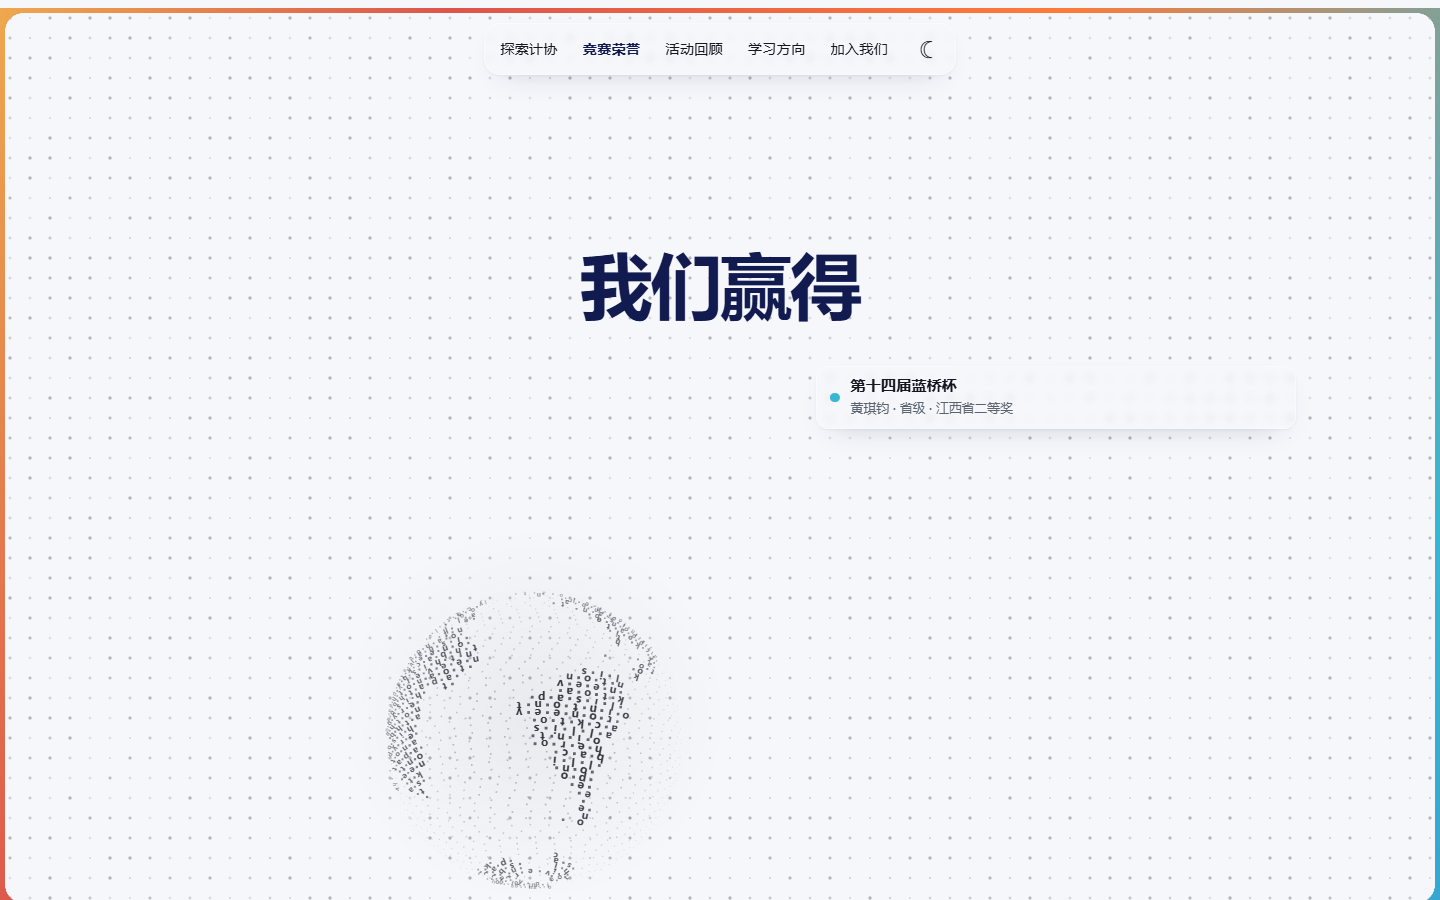
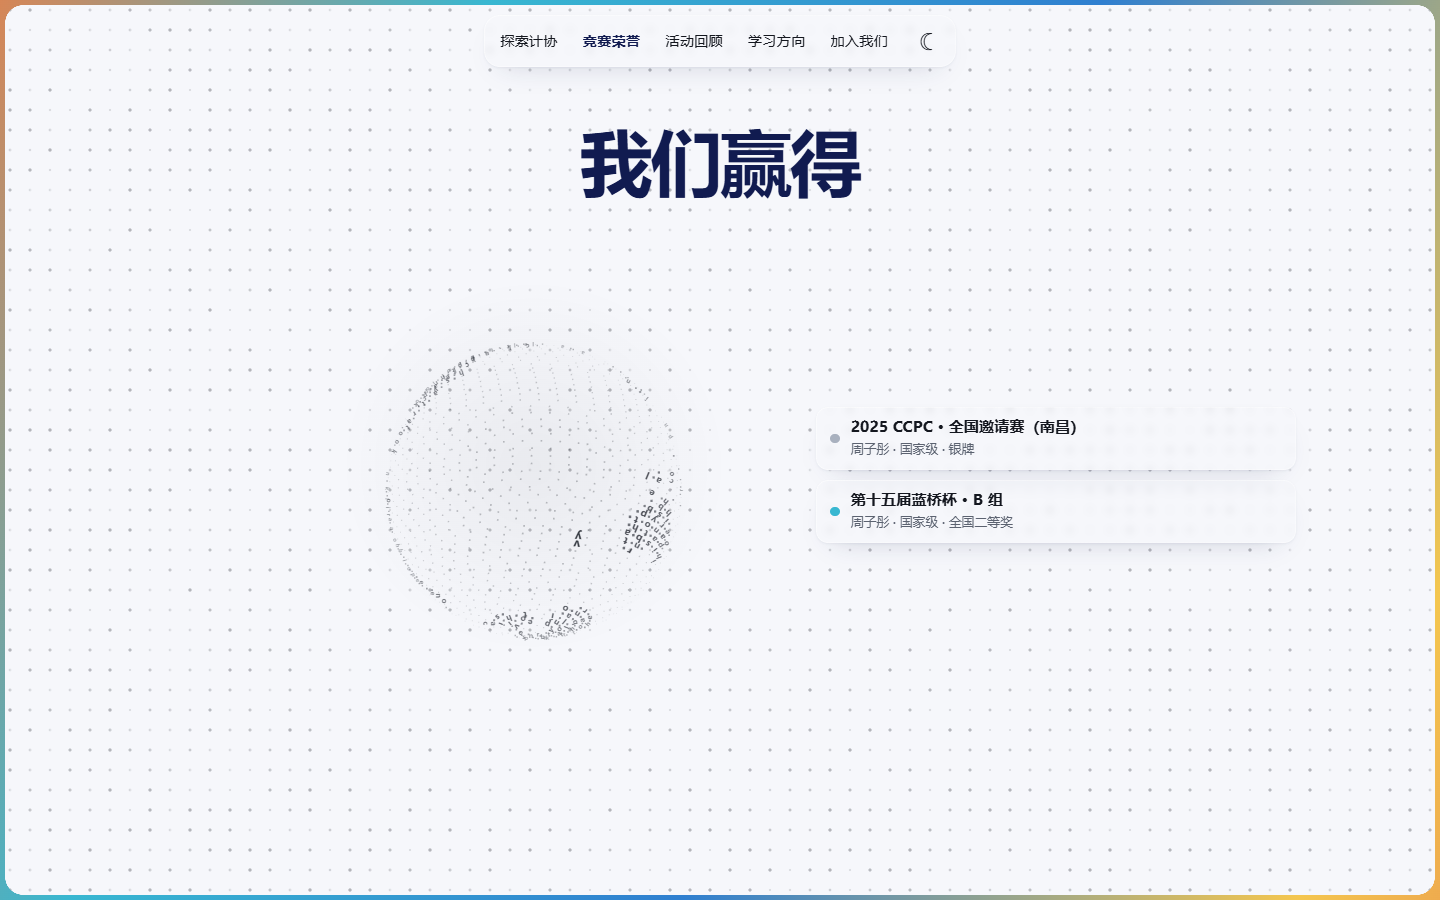
fix(site): 首页荣誉摘要收敛为基线口径的 2 条
首页基线（public/prototype/index.html）的「我们赢得」区块只列 2 条国家级成绩：
「第十五届蓝桥杯 · B 组」与「2025 CCPC · 全国邀请赛（南昌）」，完整清单留给成果页；
#3 的验收原文也是「已核验荣誉摘要（预览支持 0–4 条）」。

上一版把内容包里的 10 条全部铺在首页，比基线高 581px，既超出了「摘要」的定位，
也让首页多出一屏与成果页重复的内容。

- home-content.ts 新增 HOME_AWARDS_PREVIEW，按显式 id 从 HOME_AWARDS 里筛选，
  避免用下标切片让首页内容随数组顺序漂移；完整 10 条仍保留给成果页（#5）使用；
- home-awards.tsx 改用预览数组，源码顺序保持「弱 → 强」，
  dia-animated-list prepend 之后「2025 CCPC」落在最上方，与基线视觉顺序一致；
- 成果页空状态文案同步改为「按基线口径只公开 2 条国家级成绩摘要」；
- 三张受影响的证据图重拍（首页荣誉区、/honors 内页与它的移动端）。

diff --git a/src/components/home/home-awards.tsx b/src/components/home/home-awards.tsx
@@ -1,4 +1,4 @@
-import { HOME_AWARDS } from "@/lib/home-content";
+import { HOME_AWARDS_PREVIEW } from "@/lib/home-content";
 
 /**
  * 竞赛荣誉：导航里的 `#honors` 指向这里。
@@ -7,10 +7,12 @@ import { HOME_AWARDS } from "@/lib/home-content";
  * 材料没写的专业组细分、指导教师、获奖人数和日期一律不补。
  *
  * 说明两件事：
- * - `HOME_AWARDS` 的源码顺序是弱 → 强，`<dia-animated-list>` 会把条目逐条 prepend，
- *   视觉上最后一条落在最上方，所以数组不能按阅读顺序写。
- * - 四项全国性荣誉的发布要求仍缺两项证据（#2），本区块展示的 10 条省级及以上成绩
- *   不替代那项验收，也不因此改口径。
+ * - **首页是摘要位，只展示 2 条**（`HOME_AWARDS_PREVIEW`），与首页基线逐条一致：
+ *   基线这里只列「第十五届蓝桥杯 · B 组」和「2025 CCPC · 全国邀请赛（南昌）」，
+ *   完整清单留给成果页。#3 的验收原文也是「已核验荣誉摘要（预览支持 0–4 条）」，
+ *   所以不把 10 条全铺在首页。
+ * - `<dia-animated-list>` 会把条目逐条 prepend，视觉上最后一条落在最上方，
+ *   因此预览数组不能按阅读顺序写（源码顺序见 `home-content.ts`）。
  */
 export function HomeAwards() {
   return (
@@ -34,7 +36,7 @@ export function HomeAwards() {
 
         <dia-animated-list className="awards-list" delay="560" duration="460" start-on-view="">
           <ul className="award-list">
-            {HOME_AWARDS.map((award) => (
+            {HOME_AWARDS_PREVIEW.map((award) => (
               <li key={award.id} className="award-item" data-rank={award.rank}>
                 {/* 奖级色点纯装饰：奖级文字在 meta 行里，信息不靠颜色单独传达 */}
                 <span className="award-item__dot" aria-hidden="true" />

diff --git a/src/lib/home-content.ts b/src/lib/home-content.ts
@@ -142,6 +142,25 @@ export const HOME_AWARDS: readonly AwardEntry[] = [
   },
 ];
 
+/**
+ * 首页「我们赢得」区块**实际展示**的条目：只有 2 条，与首页基线逐条一致。
+ *
+ * 基线把这里当摘要位，只列最强的两条国家级成绩，完整清单留给成果页；
+ * #3 的验收原文也是「首页展示……已核验荣誉摘要（预览支持 0–4 条）」。
+ * 用显式 id 而不是下标切片，避免以后调整 `HOME_AWARDS` 顺序时悄悄改变首页内容。
+ * 筛选保持「弱 → 强」的源码顺序，`<dia-animated-list>` prepend 之后
+ * 「2025 CCPC」落在最上方，与基线的视觉顺序一致。
+ * 完整 10 条留在 `HOME_AWARDS`，供成果页（#5）使用。
+ */
+const HOME_AWARDS_PREVIEW_IDS: readonly string[] = [
+  "achievement-lanqiao-15",
+  "achievement-ccpc-2025",
+];
+
+export const HOME_AWARDS_PREVIEW: readonly AwardEntry[] = HOME_AWARDS.filter((award) =>
+  HOME_AWARDS_PREVIEW_IDS.includes(award.id),
+);
+
 export interface BentoCard {
   readonly icon: string;
   readonly title: string;

diff --git a/src/app/honors/page.tsx b/src/app/honors/page.tsx
@@ -13,7 +13,7 @@ export default function HonorsPage() {
       title="成果"
       summary="回答「协会有哪些结果」：竞赛获奖、项目成果，以及算法与开发类荣誉，每条都注明来源。"
       emptyTitle="完整成果清单待来源登记后填充"
-      emptyBody="首页「我们赢得」区块已经按内容包列出 10 条省级及以上成绩。本页要承载的完整清单，需要逐条登记赛事、时间与来源之后才能公开，因此本轮保留空状态，不重复陈列同一批条目。"
+      emptyBody="首页「我们赢得」区块按基线口径只公开 2 条国家级成绩作为摘要。本页要承载的完整清单，需要逐条登记赛事、时间与来源之后才能公开，因此本轮保留空状态，不重复陈列同一批条目。"
       related={["activities", { href: "/#honors", label: "首页的荣誉摘要" }]}
     />
   );
